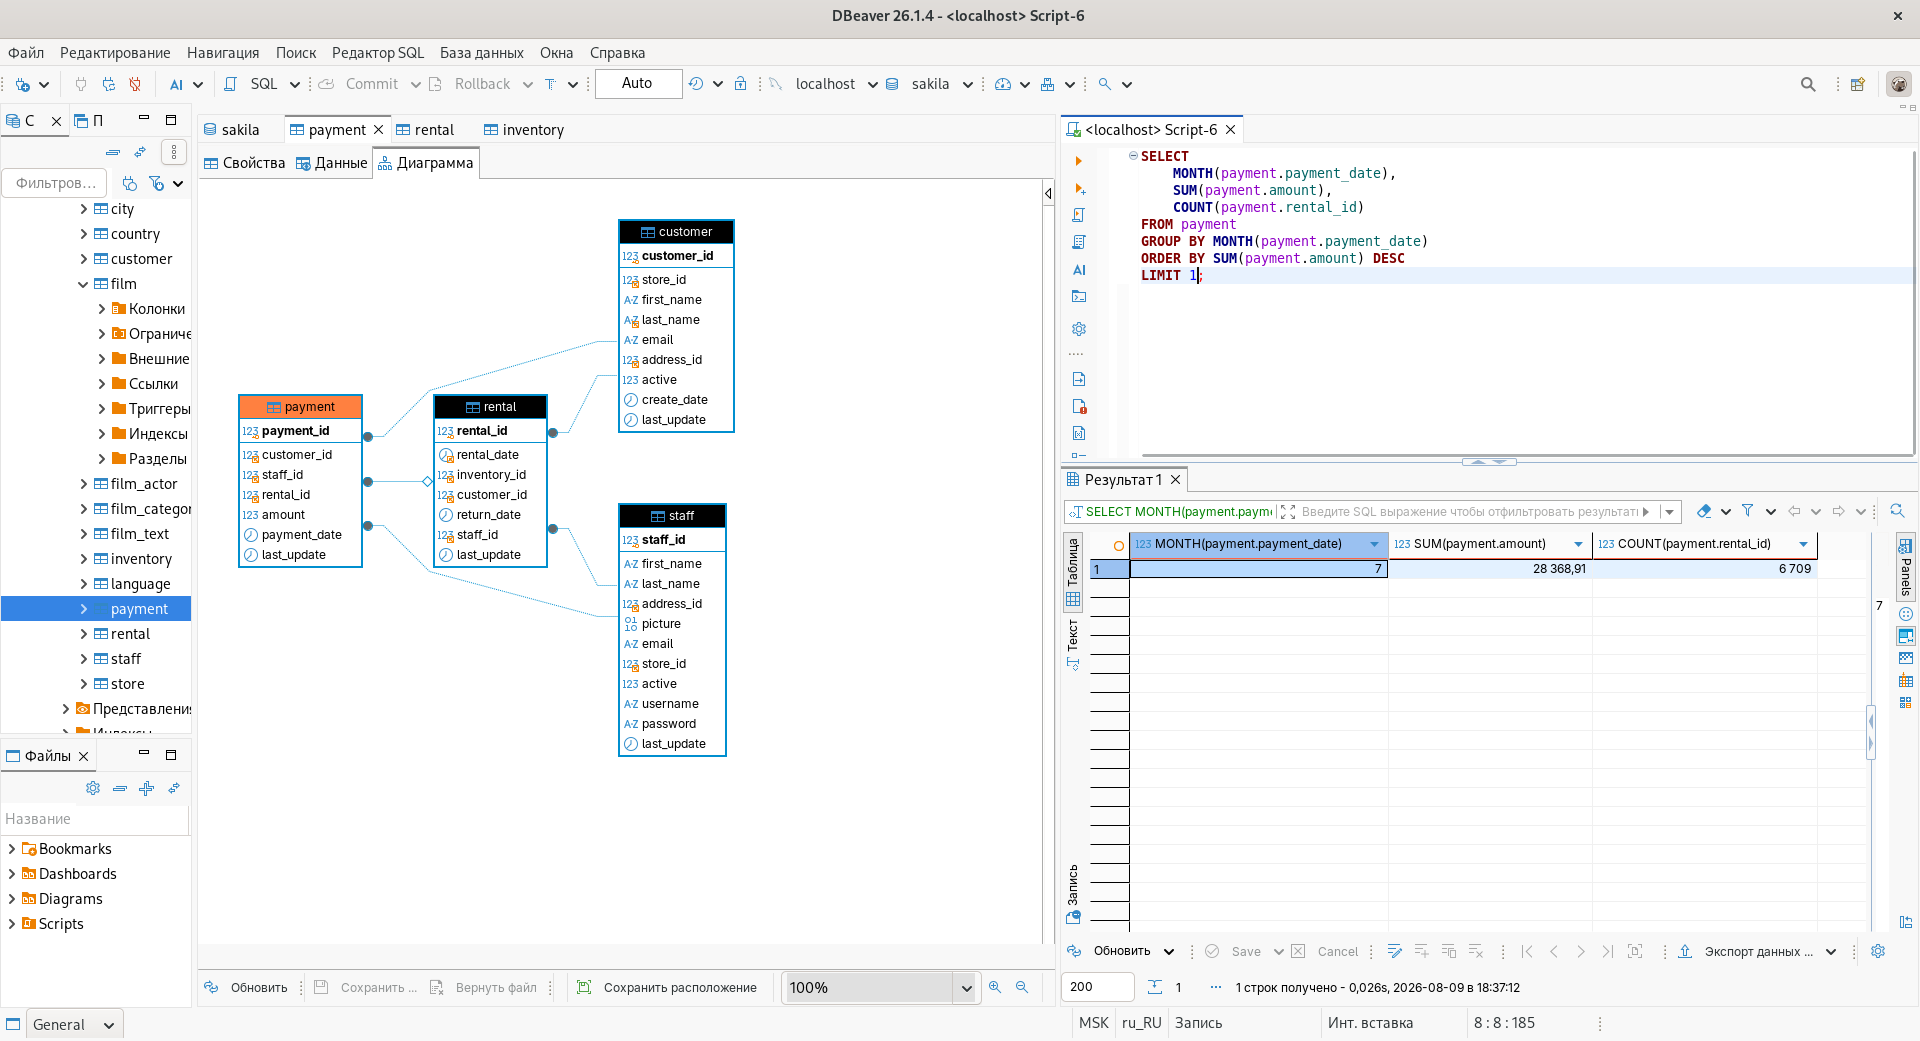
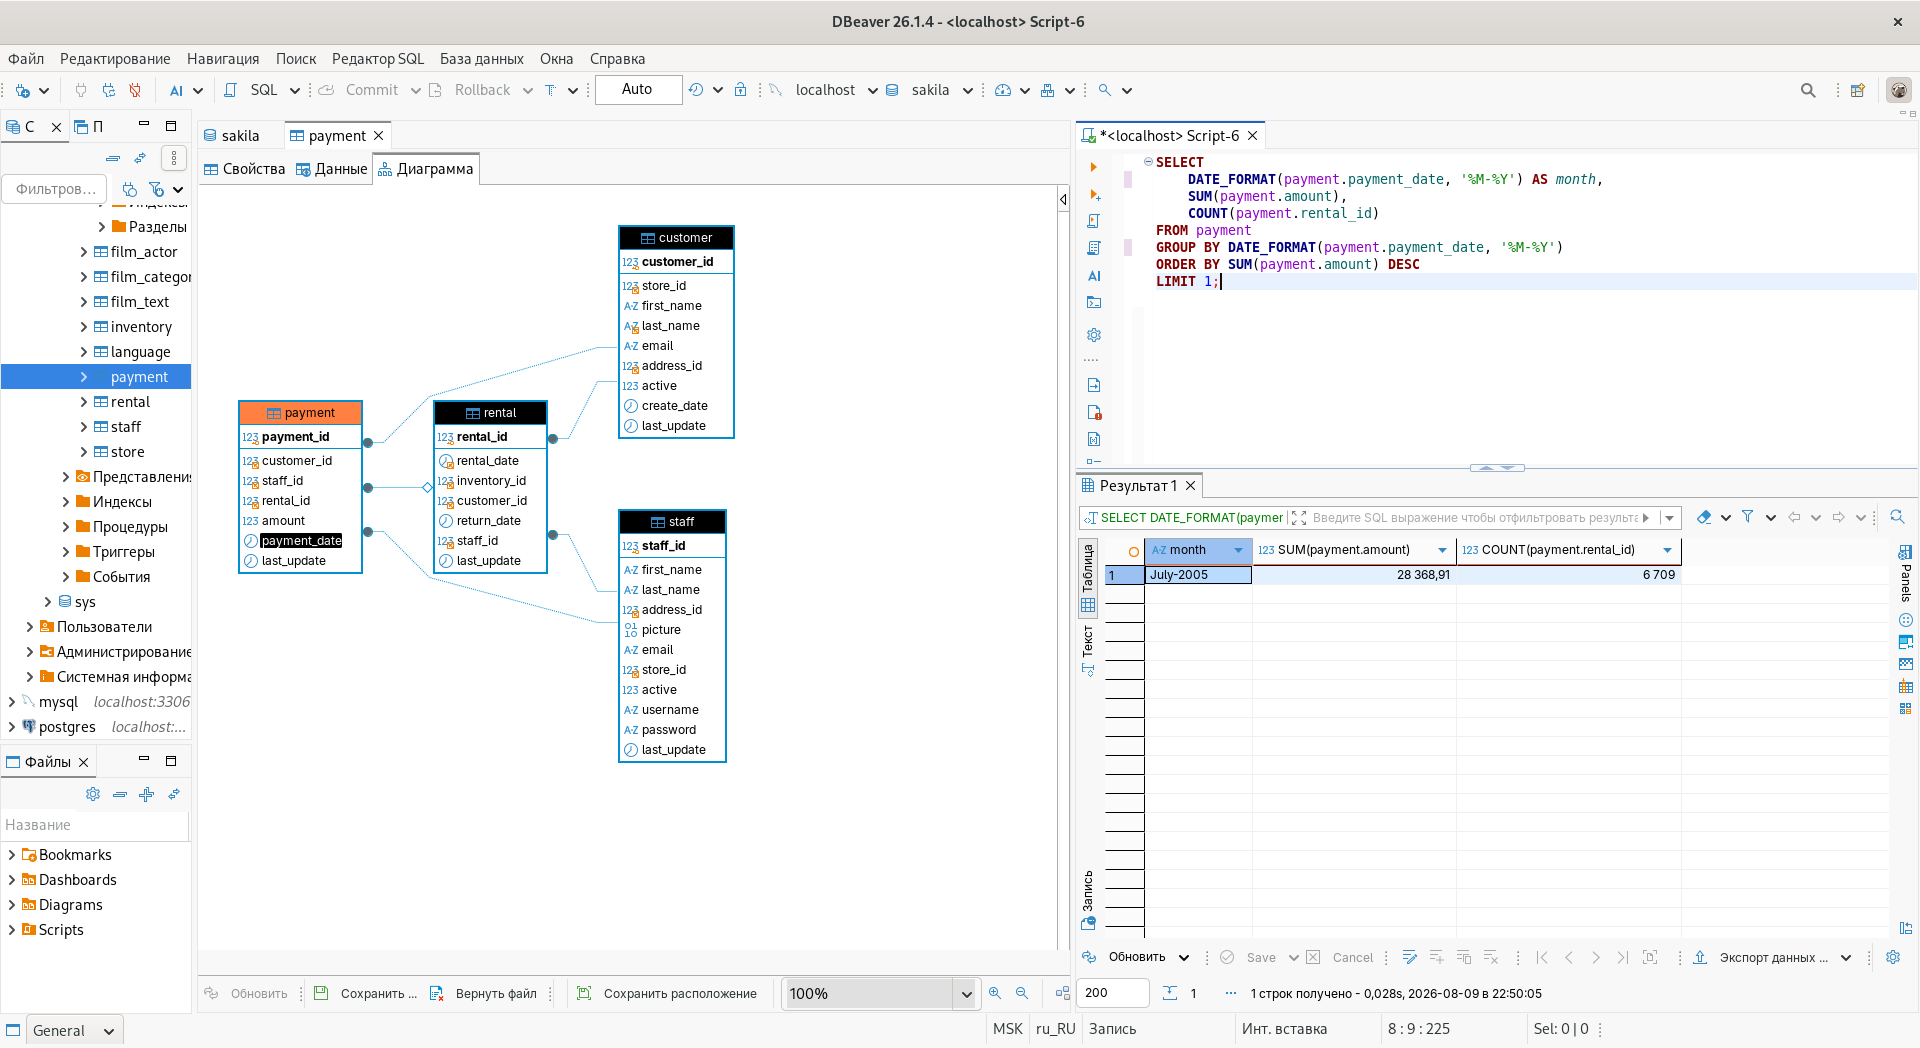
Update

diff --git a/Модуль 11: Реляционные базы данных и администрирование баз данных/11.04 Расширенные возможности SQL/README.md b/Модуль 11: Реляционные базы данных и администрирование баз данных/11.04 Расширенные возможности SQL/README.md
@@ -68,11 +68,22 @@ WHERE film.length > (
 
 ### Ход решения
 
-Сгруппировал платежи по месяцам.
+С помощью `DATE_FORMAT()` сгруппировал платежи по году и месяцу, чтобы одинаковые месяцы не объединялись.
 
 С помощью `SUM()` посчитал сумму платежей, а с помощью `COUNT()` — количество аренд.
 
 Отсортировал результат по сумме платежей и получил месяц с наибольшей суммой.
+
+```sql
+SELECT
+    DATE_FORMAT(payment.payment_date, '%M-%Y') AS month,
+    SUM(payment.amount),
+    COUNT(payment.rental_id)
+FROM payment
+GROUP BY DATE_FORMAT(payment.payment_date, '%M-%Y')
+ORDER BY SUM(payment.amount) DESC
+LIMIT 1;
+```
 
 ![Вывод SQL запроса](./task3_MONTH.png)
 
